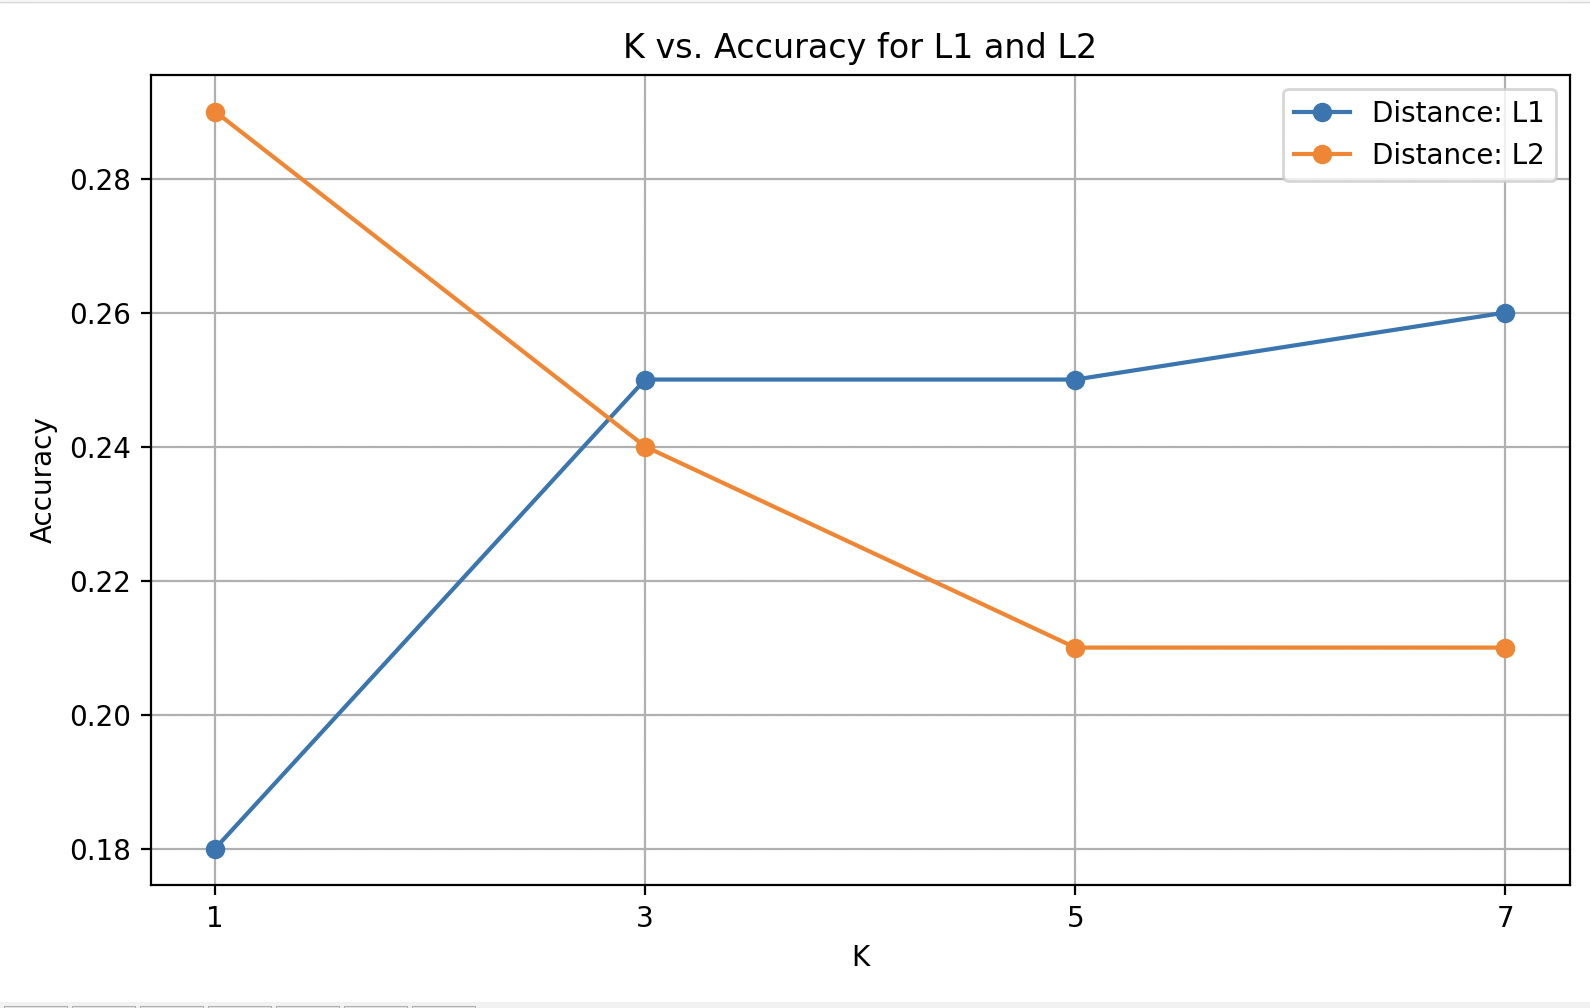
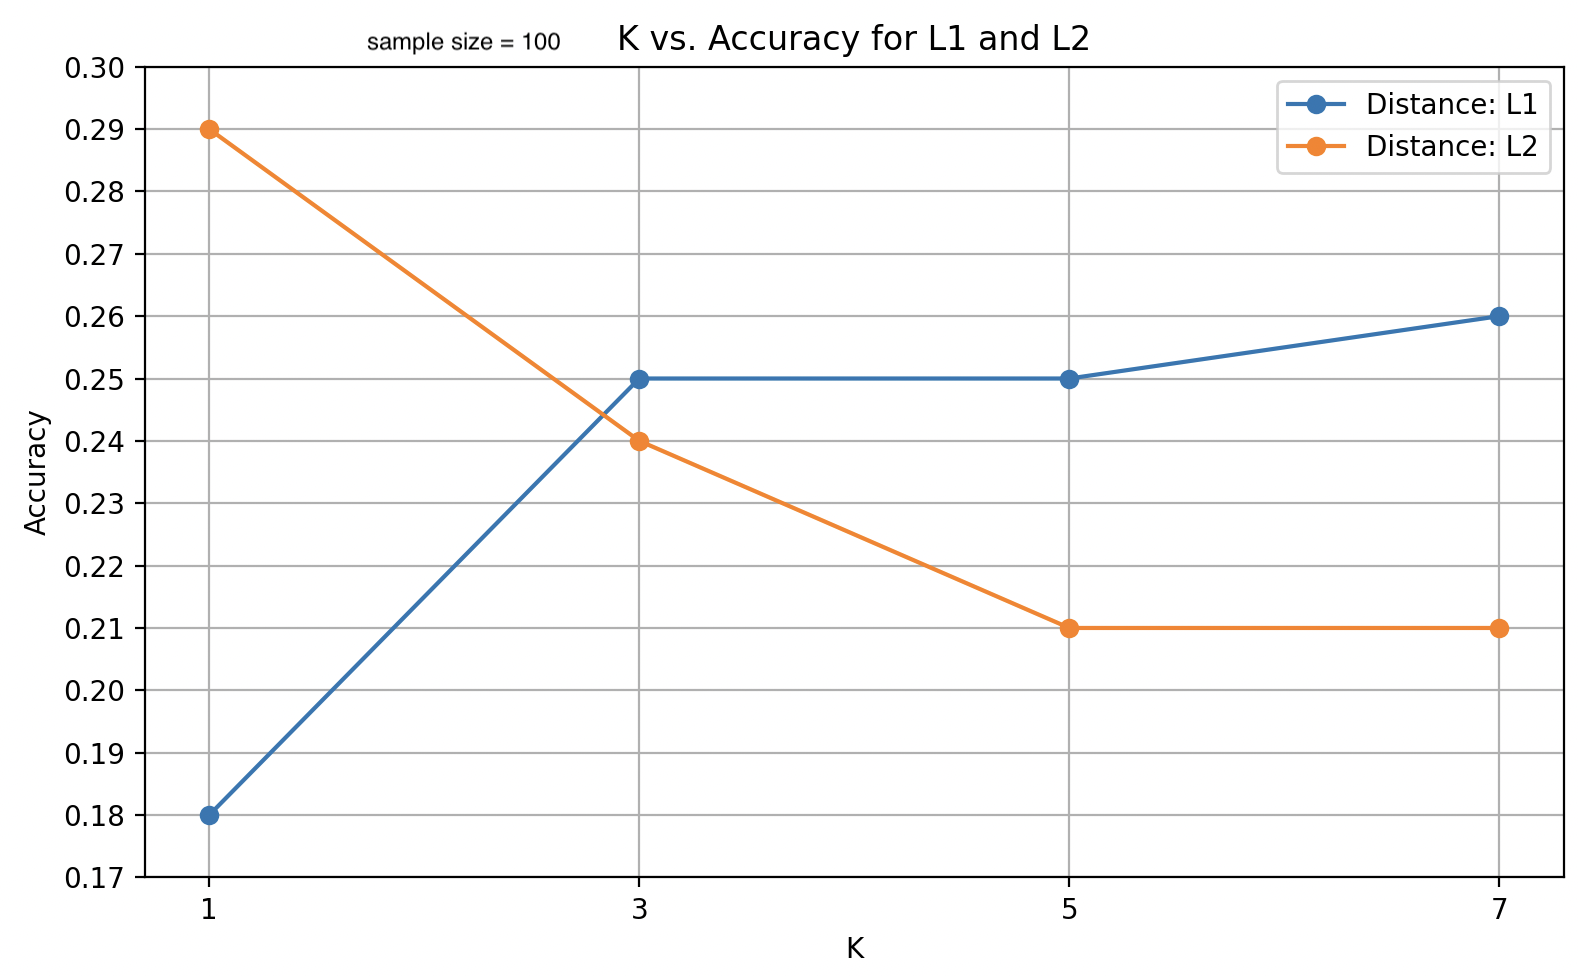
edit screenshots of visualizations for better comparison

diff --git a/src/knn_skript.py b/src/knn_skript.py
@@ -1,3 +1,4 @@
+# this script was partially created with the assistance of ChatGPT
 import numpy as np
 import matplotlib.pyplot as plt # for creating visualizations
 import time
@@ -67,19 +68,19 @@ for dist in distance_types:
     # create figure
     fig, axes = plt.subplots(len(ks), 10, figsize=(20, 8))
     fig.suptitle(f"predictions with {dist.upper()} for k=1,3,5,7")
-    
+
     for k_idx, k in enumerate(ks):
         print(f"computing {dist} for k={k}")
         #create and train knn model
         knn = KNN(k=k, distance=dist)
         knn.fit(train_data, train_labels)
-        
+
         # make prredictions for Test sample
         preds = knn.predict(test_sample)
         # calculate accuracy
         acc = accuracy_score(test_sample_labels, preds) #returns float between 0.0 and 1.0 (compares test_sample_labels with actual predictions)
         results.setdefault(dist, []).append(acc)
-        
+
         # Plot first 10 predictions
         for i in range(10):
             ax = axes[k_idx, i]
@@ -100,6 +101,8 @@ plt.title("K vs. Accuracy for L1 and L2")
 plt.xlabel("K")
 plt.ylabel("Accuracy")
 plt.xticks(ks)
+plt.ylim(0.17, 0.30)  # Set y-axis limits from 0.17 to 0.30
+plt.yticks(np.arange(0.17, 0.31, 0.01))  # Set y-axis ticks in steps of 0.01
 plt.grid(True)
 plt.legend()
 plt.tight_layout()
